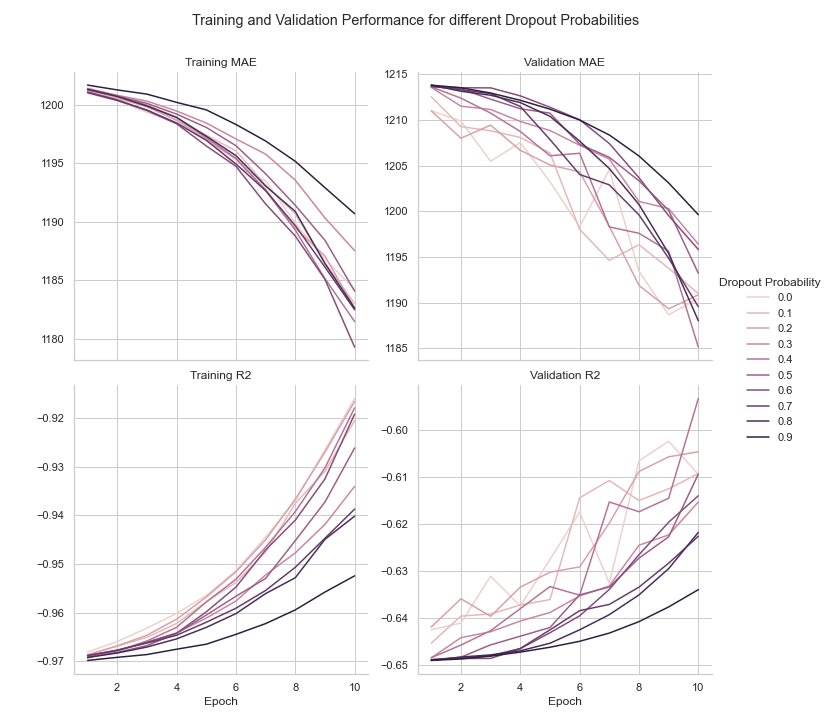
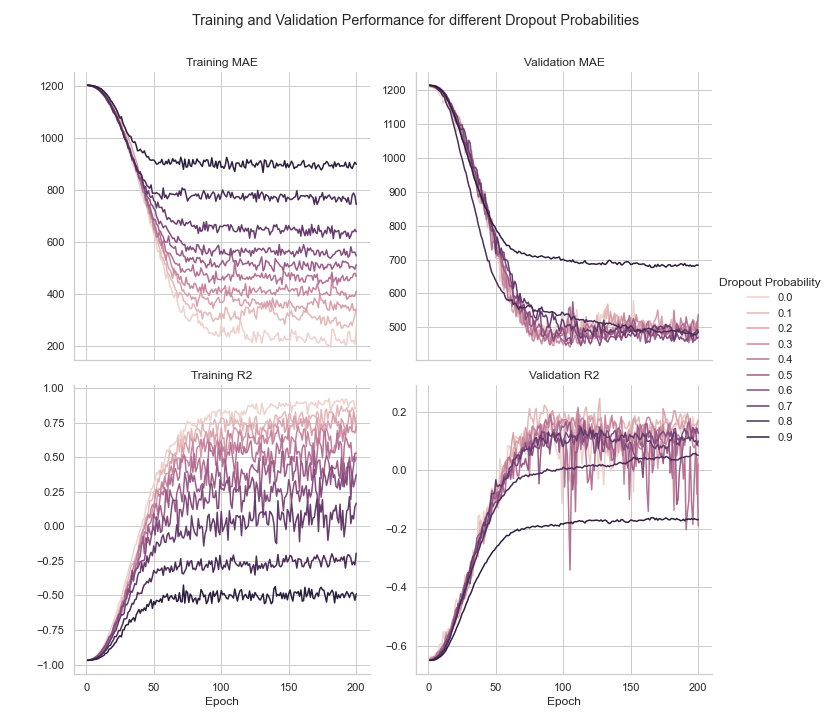
added plot of dropout performance

diff --git a/models/dropout_outliers.py b/models/dropout_outliers.py
@@ -60,7 +60,7 @@ def get_data(
 hidden_features_list = [64, 128, 256, 128, 64, 8]
 
 batch_size = 128
-num_epochs = 10
+num_epochs = 200
 use_skip_connections = True
 lr = 0.01
 log_y = False
